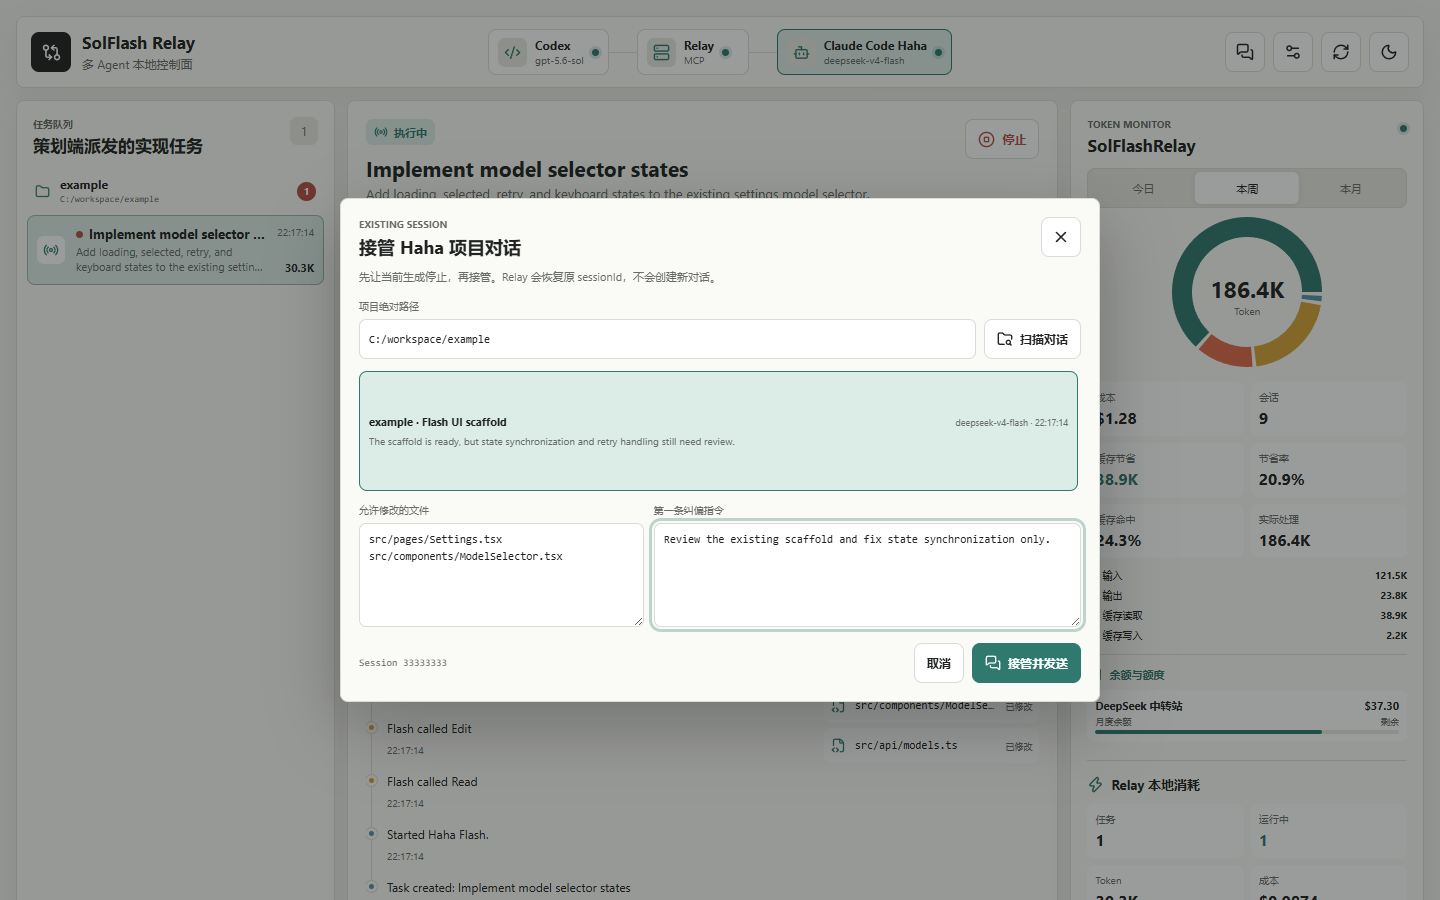
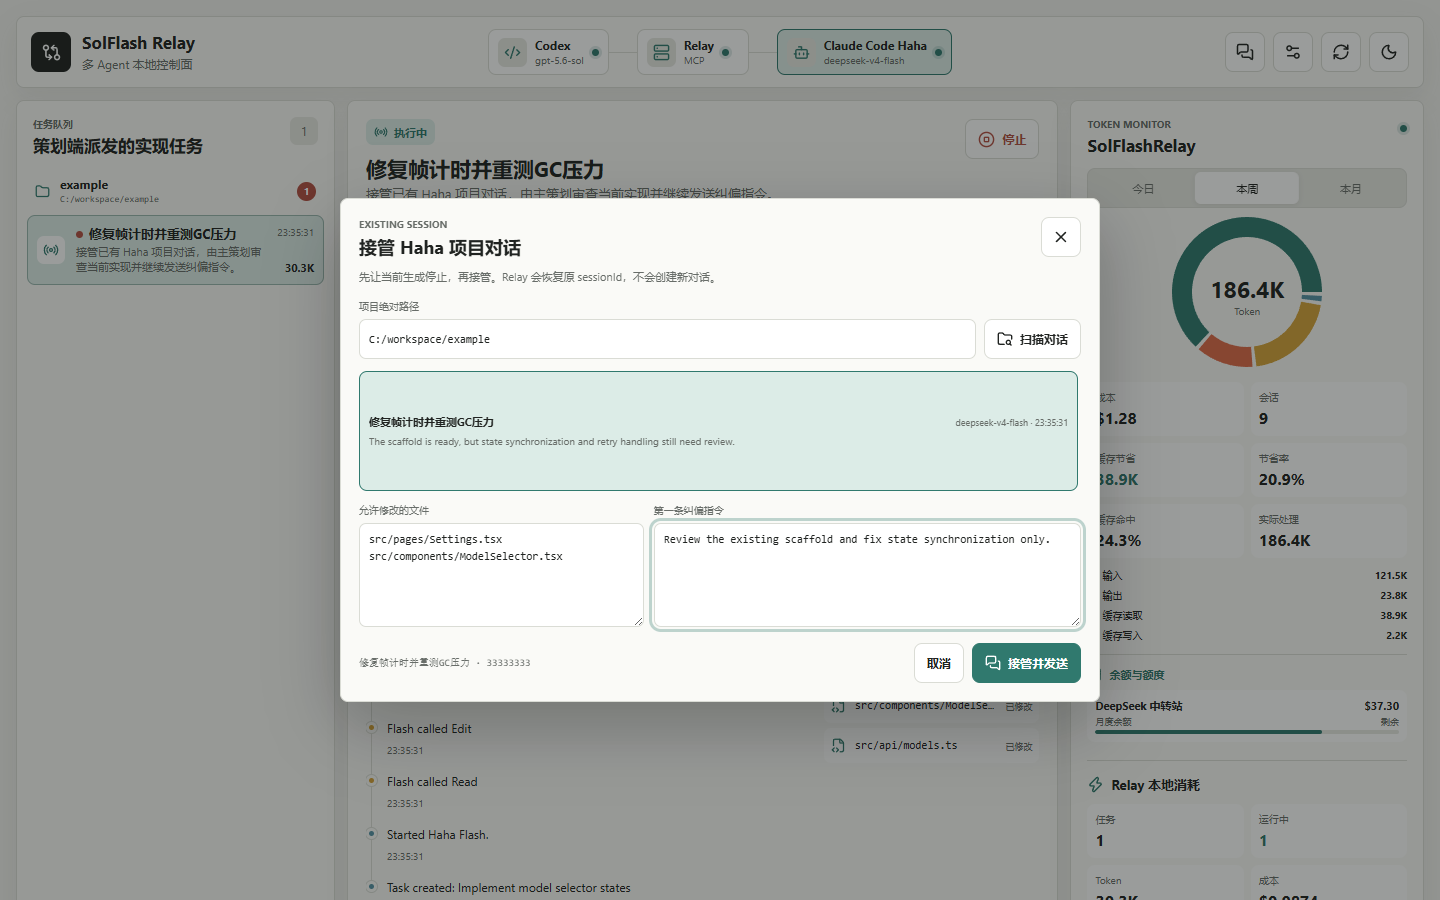
fix: discover and identify all Haha sessions

diff --git a/src/server/haha-sessions.ts b/src/server/haha-sessions.ts
@@ -1,23 +1,25 @@
 import { execFile } from "node:child_process";
-import { open, readdir, stat } from "node:fs/promises";
+import { createReadStream } from "node:fs";
+import { readdir, stat } from "node:fs/promises";
 import path from "node:path";
+import { createInterface } from "node:readline";
 import { promisify } from "node:util";
 
 import type { HahaSessionSummary } from "../shared/types.js";
 import type { RelayConfig } from "./config.js";
 
 const execFileAsync = promisify(execFile);
-const HEAD_BYTES = 256 * 1024;
-const TAIL_BYTES = 512 * 1024;
-
 type JsonLine = Record<string, unknown> & {
   type?: string;
   customTitle?: string;
+  aiTitle?: string;
   sessionId?: string;
   cwd?: string;
+  workDir?: string;
   timestamp?: string;
   lastPrompt?: string;
   message?: unknown;
+  repository?: unknown;
 };
 
 export const discoverHahaSessions = async (
@@ -62,37 +64,59 @@ const readSession = async (
   updatedAt: Date,
   changedFiles: string[],
 ): Promise<HahaSessionSummary | null> => {
-  const info = await stat(filePath);
-  const head = await readSlice(filePath, 0, Math.min(info.size, HEAD_BYTES));
-  const tailOffset = Math.max(0, info.size - TAIL_BYTES);
-  const tail = tailOffset > 0 ? await readSlice(filePath, tailOffset, TAIL_BYTES) : "";
-  const lines = [...parseLines(head), ...parseLines(tail, tailOffset > 0)];
   let sessionId = path.basename(filePath, ".jsonl");
-  let title = "";
-  let workdir = "";
+  let customTitle = "";
+  let aiTitle = "";
+  let sessionWorkdir = "";
+  let messageWorkdir = "";
   let model = "";
+  let firstPrompt = "";
   let lastPrompt = "";
   let lastResponse = "";
 
-  for (const entry of lines) {
+  const input = createReadStream(filePath, { encoding: "utf8" });
+  const lines = createInterface({ input, crlfDelay: Infinity });
+  for await (const line of lines) {
+    const entry = parseLine(line);
+    if (!entry) continue;
     sessionId = asString(entry.sessionId) || sessionId;
-    title = entry.type === "custom-title" ? asString(entry.customTitle) || title : title;
-    workdir = asString(entry.cwd) || workdir;
-    if (entry.type === "last-prompt") lastPrompt = asString(entry.lastPrompt) || lastPrompt;
+    customTitle = entry.type === "custom-title" ? asString(entry.customTitle) || customTitle : customTitle;
+    aiTitle = entry.type === "ai-title" ? asString(entry.aiTitle) || aiTitle : aiTitle;
+    if (entry.type === "session-meta") {
+      const repository = asRecord(entry.repository);
+      sessionWorkdir = asString(entry.workDir)
+        || asString(repository.requestedWorkDir)
+        || asString(repository.repoRoot)
+        || sessionWorkdir;
+      model = asString(entry.runtimeModelId) || model;
+    }
+    messageWorkdir = asString(entry.cwd) || messageWorkdir;
+    if (entry.type === "last-prompt") {
+      const prompt = asString(entry.lastPrompt);
+      if (!isInternalPrompt(prompt)) {
+        firstPrompt ||= prompt;
+        lastPrompt = prompt || lastPrompt;
+      }
+    }
     const message = asRecord(entry.message);
     const role = asString(message.role);
     if (role === "assistant") {
       model = asString(message.model) || model;
       lastResponse = textContent(message.content) || lastResponse;
     } else if (role === "user") {
-      lastPrompt = textContent(message.content) || lastPrompt;
+      const prompt = textContent(message.content);
+      if (!isInternalPrompt(prompt)) {
+        firstPrompt ||= prompt;
+        lastPrompt = prompt || lastPrompt;
+      }
     }
   }
 
+  const workdir = sessionWorkdir || messageWorkdir;
   if (!workdir || !sessionId) return null;
   return {
     sessionId,
-    title: title || summarize(lastPrompt) || `Haha ${sessionId.slice(0, 8)}`,
+    title: customTitle || aiTitle || summarize(firstPrompt) || `Haha ${sessionId.slice(0, 8)}`,
     workdir,
     model: model || "unknown",
     updatedAt: updatedAt.toISOString(),
@@ -102,27 +126,12 @@ const readSession = async (
   };
 };
 
-const readSlice = async (filePath: string, position: number, length: number) => {
-  const handle = await open(filePath, "r");
+const parseLine = (line: string): JsonLine | null => {
   try {
-    const buffer = Buffer.alloc(length);
-    const { bytesRead } = await handle.read(buffer, 0, length, position);
-    return buffer.subarray(0, bytesRead).toString("utf8");
-  } finally {
-    await handle.close();
+    return JSON.parse(line) as JsonLine;
+  } catch {
+    return null;
   }
-};
-
-const parseLines = (text: string, discardFirst = false): JsonLine[] => {
-  const lines = text.split(/\r?\n/);
-  if (discardFirst) lines.shift();
-  return lines.flatMap((line) => {
-    try {
-      return [JSON.parse(line) as JsonLine];
-    } catch {
-      return [];
-    }
-  });
 };
 
 const discoverChangedFiles = async (workdir: string) => {
@@ -162,6 +171,8 @@ const isUsageProbe = (session: HahaSessionSummary) => {
   const text = `${session.title}\n${session.lastPrompt}`.toLowerCase();
   return text.includes("unknown skill: usage") || /^\s*\/usage\s*$/i.test(session.lastPrompt);
 };
+
+const isInternalPrompt = (value: string) => /^\s*<task-notification(?:\s|>)/i.test(value);
 
 const summarize = (value: string, limit = 120) => {
   const normalized = value.replace(/\s+/g, " ").trim();

diff --git a/src/server/haha-sessions-test.ts b/src/server/haha-sessions-test.ts
@@ -12,6 +12,8 @@ const workdir = path.join(root, "workspace");
 const claudeRoot = path.join(root, ".claude");
 const projectDir = path.join(claudeRoot, "projects", "fixture-project");
 const sessionId = "11111111-2222-4333-8444-555555555555";
+const nestedSessionId = "22222222-3333-4444-8555-666666666666";
+const untitledSessionId = "33333333-4444-4555-8666-777777777777";
 await rm(root, { recursive: true, force: true });
 await mkdir(path.join(workdir, "src"), { recursive: true });
 await mkdir(projectDir, { recursive: true });
@@ -27,6 +29,34 @@ await writeFile(
   `${sessionLines.map((line) => JSON.stringify(line)).join("\n")}\n`,
   "utf8",
 );
+const nestedSessionLines = [
+  {
+    type: "session-meta",
+    workDir: workdir,
+    repository: { requestedWorkDir: workdir, repoRoot: workdir },
+    runtimeModelId: "deepseek-v4-flash",
+  },
+  { type: "user", sessionId: nestedSessionId, cwd: workdir, message: { role: "user", content: "Fix frame timing and rerun the GC test." } },
+  { type: "ai-title", aiTitle: "Fix frame timing and retest GC pressure" },
+  { type: "assistant", sessionId: nestedSessionId, cwd: path.join(workdir, "src"), message: { role: "assistant", model: "deepseek-v4-flash", content: "The correction is complete." } },
+  { type: "user", sessionId: nestedSessionId, cwd: path.join(workdir, "src"), message: { role: "user", content: "<task-notification><task-id>internal</task-id></task-notification>" } },
+];
+await writeFile(
+  path.join(projectDir, `${nestedSessionId}.jsonl`),
+  `${nestedSessionLines.map((line) => JSON.stringify(line)).join("\n")}\n`,
+  "utf8",
+);
+const untitledSessionLines = [
+  { type: "session-meta", workDir: workdir, runtimeModelId: "deepseek-v4-flash" },
+  { type: "user", sessionId: untitledSessionId, cwd: workdir, message: { role: "user", content: "Read the Wishflower project and update it." } },
+  { type: "assistant", sessionId: untitledSessionId, cwd: workdir, message: { role: "assistant", model: "deepseek-v4-flash", content: "Initial update complete." } },
+  { type: "user", sessionId: untitledSessionId, cwd: workdir, message: { role: "user", content: "Add recipe chain tracking without unrelated refactors." } },
+];
+await writeFile(
+  path.join(projectDir, `${untitledSessionId}.jsonl`),
+  `${untitledSessionLines.map((line) => JSON.stringify(line)).join("\n")}\n`,
+  "utf8",
+);
 await writeFile(
   path.join(projectDir, "99999999-2222-4333-8444-555555555555.jsonl"),
   `${JSON.stringify({ type: "user", sessionId: "99999999-2222-4333-8444-555555555555", cwd: workdir, message: { role: "user", content: "Unknown skill: usage" } })}\n`,
@@ -39,11 +69,29 @@ const testConfig = {
   hahaGlobalConfigDir: claudeRoot,
 };
 const sessions = await discoverHahaSessions(testConfig, workdir);
-if (sessions.length !== 1 || sessions[0].sessionId !== sessionId) {
-  throw new Error(`Expected one adoptable session, received ${JSON.stringify(sessions)}`);
+if (sessions.length !== 3 || !sessions.some((session) => session.sessionId === sessionId)) {
+  throw new Error(`Expected three adoptable sessions, received ${JSON.stringify(sessions)}`);
 }
-if (sessions[0].model !== "deepseek-v4-flash" || !sessions[0].lastResponse.includes("state sync")) {
-  throw new Error(`Session metadata was not parsed correctly: ${JSON.stringify(sessions[0])}`);
+const primarySession = sessions.find((session) => session.sessionId === sessionId)!;
+const nestedSession = sessions.find((session) => session.sessionId === nestedSessionId);
+const untitledSession = sessions.find((session) => session.sessionId === untitledSessionId);
+if (primarySession.model !== "deepseek-v4-flash" || !primarySession.lastResponse.includes("state sync")) {
+  throw new Error(`Session metadata was not parsed correctly: ${JSON.stringify(primarySession)}`);
+}
+if (
+  !nestedSession
+  || nestedSession.workdir !== workdir
+  || nestedSession.title !== "Fix frame timing and retest GC pressure"
+  || nestedSession.lastPrompt !== "Fix frame timing and rerun the GC test."
+) {
+  throw new Error(`Nested session metadata was not parsed correctly: ${JSON.stringify(nestedSession)}`);
+}
+if (
+  !untitledSession
+  || untitledSession.title !== "Read the Wishflower project and update it."
+  || untitledSession.lastPrompt !== "Add recipe chain tracking without unrelated refactors."
+) {
+  throw new Error(`Untitled session prompts were not parsed correctly: ${JSON.stringify(untitledSession)}`);
 }
 
 const store = new TaskStore(testConfig.dataDir);
@@ -53,7 +101,7 @@ await settings.load();
 const manager = new TaskManager(testConfig, store, settings);
 let rejectedEmptyInstruction = false;
 try {
-  await manager.adopt(sessions[0], ["src/App.tsx"], "");
+  await manager.adopt(primarySession, ["src/App.tsx"], "");
 } catch (error) {
   rejectedEmptyInstruction = error instanceof Error && error.message.includes("instruction");
 }
@@ -63,6 +111,8 @@ console.log(JSON.stringify({
   ok: true,
   discovered: sessions.length,
   sessionId,
+  nestedSessionId,
+  untitledSessionId,
   rejectedEmptyInstruction,
 }));
 await rm(root, { recursive: true, force: true });

diff --git a/src/client/App.tsx b/src/client/App.tsx
@@ -706,6 +706,7 @@ function AdoptHahaDialog({
   onClose: () => void;
   onSubmit: () => void;
 }) {
+  const selectedSession = sessions.find((session) => session.sessionId === selectedId);
   return (
     <div className="dialog-backdrop" role="presentation" onMouseDown={(event) => event.target === event.currentTarget && onClose()}>
       <section className="settings-dialog adopt-dialog" role="dialog" aria-modal="true" aria-labelledby="adopt-title">
@@ -740,7 +741,9 @@ function AdoptHahaDialog({
           <label><span>第一条纠偏指令</span><textarea value={instruction} onChange={(event) => onInstruction(event.target.value)} placeholder="例如：先检查现有实现，不要重写架构；修复状态同步和错误处理，然后运行指定测试。" /></label>
         </div>
         <footer>
-          <span className="adopt-session-id">{selectedId ? `Session ${selectedId.slice(0, 8)}` : "尚未选择会话"}</span>
+          <span className="adopt-session-id" title={selectedSession?.title}>
+            {selectedSession ? `${selectedSession.title} · ${selectedSession.sessionId.slice(0, 8)}` : "尚未选择会话"}
+          </span>
           <div className="dialog-save-actions">
             <button className="secondary-button" onClick={onClose}>取消</button>
             <button className="primary-button" disabled={busy || loading || !selectedId} onClick={onSubmit}><MessagesSquare size={16} />接管并发送</button>
@@ -904,11 +907,19 @@ function ConversationPane({ task, role }: { task: RelayTask; role: "planner" | "
   const model = isPlanner
     ? task.request.plannerModel
     : task.effectiveModel ?? task.requestedModel;
+  const title = isPlanner
+    ? "A · 主策划"
+    : task.sourceSessionTitle
+      ? `B · ${task.sourceSessionTitle}`
+      : "B · 执行";
+  const detail = isPlanner
+    ? `${agent} · ${model}`
+    : `${agent} · ${model} · ${task.sessionId.slice(0, 8)}`;
   return (
     <section className={`conversation-pane conversation-${role}`}>
       <header>
         <span className="conversation-avatar">{isPlanner ? <Code2 size={16} /> : <Bot size={16} />}</span>
-        <div><strong>{isPlanner ? "A · 主策划" : "B · 执行"}</strong><small>{agent} · {model}</small></div>
+        <div><strong title={title}>{title}</strong><small>{detail}</small></div>
         {!isPlanner && <StatusPill status={task.status} />}
       </header>
       <div className="conversation-messages">

diff --git a/src/client/styles.css b/src/client/styles.css
@@ -148,7 +148,7 @@ button { color: inherit; }
 .conversation-avatar { width: 34px; height: 34px; display: grid; place-items: center; border-radius: 8px; color: var(--accent); background: var(--accent-soft); }
 .conversation-executor .conversation-avatar { color: var(--blue); background: color-mix(in srgb, var(--blue) 12%, var(--surface)); }
 .conversation-pane > header > div { min-width: 0; display: flex; flex-direction: column; gap: 2px; }
-.conversation-pane > header strong { font-size: 12px; }
+.conversation-pane > header strong { overflow: hidden; text-overflow: ellipsis; white-space: nowrap; font-size: 12px; }
 .conversation-pane > header small { overflow: hidden; text-overflow: ellipsis; white-space: nowrap; color: var(--text-soft); font-size: 10px; }
 .conversation-messages { display: flex; flex-direction: column; gap: 7px; max-height: 250px; overflow: auto; padding-right: 3px; }
 .conversation-message { padding: 10px 11px; border-left: 3px solid var(--accent); border-radius: 0 7px 7px 0; background: var(--surface-raised); }
@@ -284,7 +284,7 @@ button { color: inherit; }
 .adopt-empty { min-height: 120px; display: grid; place-items: center; color: var(--text-soft); background: var(--surface-muted); border-radius: 8px; font-size: 11px; }
 .adopt-fields { display: grid; grid-template-columns: 0.8fr 1.2fr; gap: 10px; margin-top: 12px; }
 .adopt-fields textarea { min-height: 104px; resize: vertical; padding: 8px 9px; font: 11px/1.5 Consolas, monospace; }
-.adopt-session-id { align-self: center; color: var(--text-soft); font: 10px/1.4 Consolas, monospace; }
+.adopt-session-id { min-width: 0; max-width: 52%; align-self: center; overflow: hidden; text-overflow: ellipsis; white-space: nowrap; color: var(--text-soft); font: 10px/1.4 Consolas, monospace; }
 
 @media (max-width: 1180px) {
   .dashboard-grid { grid-template-columns: minmax(220px, 0.7fr) minmax(450px, 1.5fr); }

diff --git a/src/server/task-manager.ts b/src/server/task-manager.ts
@@ -153,7 +153,7 @@ export class TaskManager {
       ? session.model
       : settings.executorModel;
     const normalized = await this.#validateRequest({
-      title: `接管 · ${session.title}`,
+      title: session.title,
       objective: "接管已有 Haha 项目对话，由主策划审查当前实现并继续发送纠偏指令。",
       workdir: session.workdir,
       allowedFiles,
@@ -189,6 +189,7 @@ export class TaskManager {
       events: [],
       messages: [],
       origin: "adopted",
+      sourceSessionTitle: session.title,
     };
 
     await this.store.set(task);

diff --git a/src/server/config.ts b/src/server/config.ts
@@ -5,7 +5,7 @@ import os from "node:os";
 
 import type { RelayConfigView } from "../shared/types.js";
 
-export const relayVersion = "0.6.0";
+export const relayVersion = "0.6.1";
 
 const parsePort = (value: string | undefined, fallback: number) => {
   const parsed = Number(value);

diff --git a/src/shared/types.ts b/src/shared/types.ts
@@ -120,6 +120,7 @@ export interface RelayTask {
   events: RelayEvent[];
   messages: AgentConversationMessage[];
   origin?: "relay" | "adopted";
+  sourceSessionTitle?: string;
 }
 
 export interface HahaSessionSummary {

diff --git a/docs/releases/v0.6.1.md b/docs/releases/v0.6.1.md
@@ -1,0 +1,55 @@
+# SolFlash Relay 0.6.1
+
+发布日期 / Release date: 2026-08-09
+
+## 中文
+
+### Haha 会话扫描修复
+
+- 修复同一项目有三个 Haha 对话时只显示两个的问题。
+- 使用 `session-meta.workDir` 与 `repository.requestedWorkDir` 判断会话原始项目，不再被后期消息进入子目录影响。
+- 流式读取完整 JSONL，会话再大也能找到位于文件中段的标题记录，同时避免一次性载入整个文件。
+- 读取 Haha 原生 `ai-title.aiTitle`；没有 AI 标题时使用第一条真实用户提示。
+- 忽略内部 `<task-notification>`，不再把任务通知 XML 当成标题或最近提示。
+
+### 对话区分
+
+- 接管后的任务标题与 Haha 侧栏标题一致。
+- B 执行对话栏显示原 Haha 标题和短 `sessionId`，同一项目的多个会话更容易辨认。
+- 接管弹窗底部同时显示所选会话标题和短 `sessionId`。
+
+### 实机验证
+
+- 在真实项目路径中识别到全部 3 个 Haha 会话，标题与 Haha 侧栏一致，实际模型均为 `deepseek-v4-flash`。
+- 通过 TypeScript、构建、Haha 会话回归、MCP、服务端、Agent 路由、Playwright 桌面/移动 UI 和 Electron 桌面烟雾测试。
+
+### 下载校验
+
[2 lines of base64/hex data omitted]
+
+## English
+
+### Haha session discovery fix
+
+- Fixes projects where Haha displayed three conversations but Relay found only two.
+- Uses `session-meta.workDir` and `repository.requestedWorkDir` as the canonical project identity, instead of a later message's subdirectory.
+- Streams the complete JSONL so title records in the middle of large sessions are found without loading the whole file into memory.
+- Reads Haha's native `ai-title.aiTitle`, falling back to the first real user prompt when no AI title exists.
+- Excludes internal `<task-notification>` messages from titles and latest-prompt previews.
+
+### Conversation identification
+
+- Adopted task titles now exactly match the Haha sidebar title.
+- Executor conversation B shows the original Haha title plus a short `sessionId`.
+- The adoption dialog footer shows both the selected title and short `sessionId`.
+
+### Real-data verification
+
+- Confirmed all three native Haha conversations under the reported project path, with matching titles and `deepseek-v4-flash` as the effective model.
+- Passed TypeScript, production build, Haha-session regression, MCP, server, Agent routing, Playwright desktop/mobile UI, and Electron desktop smoke tests.
+
+### Download verification
+
[2 lines of base64/hex data omitted]
